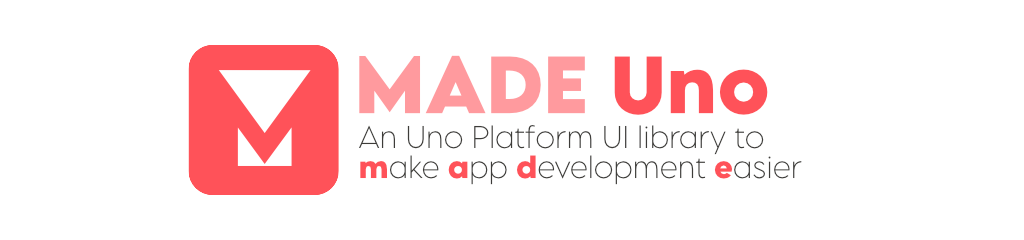
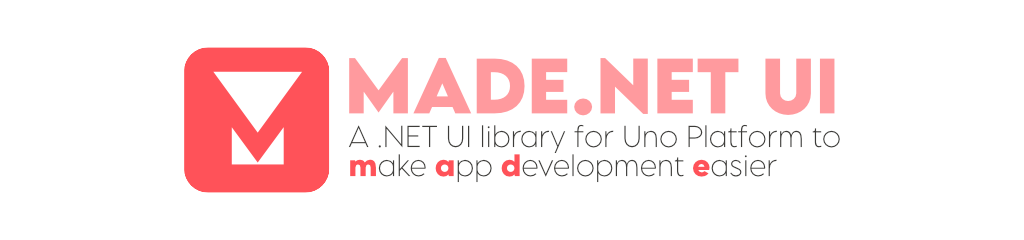
Updated brand to MADE.NET UI

Changed region(s): [[0.1562, 0.2042, 0.8125, 0.8167], [0.1875, 0.175, 0.3125, 0.2042]]

diff --git a/README.md b/README.md
@@ -1,25 +1,25 @@
 <img src="assets/ProjectBanner.png" alt="MADE project banner" />
 
-# MADE Uno
+# MADE.NET UI
 
-A library of Uno Platform UI components, supporting Windows, Android, iOS, and WebAssembly platforms.
+A library of UI components built on the Uno Platform supporting Windows, Android, iOS, and WebAssembly platforms.
 
 This is a collection of companion libraries to the [MADE.NET](https://github.com/MADE-Apps/MADE.NET) libraries.
 
-## Support MADE Uno ♥
+## Support MADE.NET UI ♥
 
-As many developers know, projects like MADE Uno are built and maintained in spare time. If you find this project useful, please **Star** the repo and if possible, sponsor the project development on GitHub.
+As many developers know, projects like MADE.NET UI are built and maintained in spare time. If you find this project useful, please **Star** the repo and if possible, sponsor the project development on GitHub.
 
 ## Build Status
 
 | Build | Status | View |
 | ------ | ------ | ------ |
-| Packages | [![CI](https://github.com/MADE-Apps/MADE-Uno/actions/workflows/ci.yml/badge.svg)](https://github.com/MADE-Apps/MADE-Uno/actions/workflows/ci.yml) | [![NuGet](https://img.shields.io/nuget/v/MADE.UI)](https://www.nuget.org/packages?q=Tags%3A%22MADE%22+UI) |
-| Docs | [![Docs](https://github.com/MADE-Apps/MADE-Uno/actions/workflows/docs.yml/badge.svg)](https://github.com/MADE-Apps/MADE-Uno/actions/workflows/docs.yml) | [![Docs](https://img.shields.io/badge/Docs-GitHub%20Pages-blue?logo=readthedocs)](https://made-apps.github.io/MADE-Uno/) |
+| Packages | [![CI](https://github.com/MADE-Apps/MADE.NET-UI/actions/workflows/ci.yml/badge.svg)](https://github.com/MADE-Apps/MADE.NET-UI/actions/workflows/ci.yml) | [![NuGet](https://img.shields.io/nuget/v/MADE.UI)](https://www.nuget.org/packages?q=Tags%3A%22MADE%22+UI) |
+| Docs | [![Docs](https://github.com/MADE-Apps/MADE.NET-UI/actions/workflows/docs.yml/badge.svg)](https://github.com/MADE-Apps/MADE.NET-UI/actions/workflows/docs.yml) | [![Docs](https://img.shields.io/badge/Docs-GitHub%20Pages-blue?logo=readthedocs)](https://made-apps.github.io/MADE.NET-UI/) |
 
 ## Installation 💾
 
-[MADE Uno](https://www.nuget.org/profiles/made-apps) components are publicly available via NuGet. Each available package is detailed below.
+[MADE.NET UI](https://www.nuget.org/profiles/made-apps) components are publicly available via NuGet. Each available package is detailed below.
 
 | Package | Current | Preview | Downloads |
 | ------ | ------ | ------ | ------ |
@@ -29,6 +29,7 @@ As many developers know, projects like MADE Uno are built and maintained in spar
 | UI.Controls.DropDownList | [![NuGet](https://img.shields.io/nuget/v/MADE.UI.Controls.DropDownList)](https://www.nuget.org/packages/MADE.UI.Controls.DropDownList/) | [![NuGet](https://img.shields.io/nuget/vpre/MADE.UI.Controls.DropDownList)](https://www.nuget.org/packages/MADE.UI.Controls.DropDownList/) | [![NuGet Downloads](https://img.shields.io/nuget/dt/MADE.UI.Controls.DropDownList.svg)](https://www.nuget.org/packages/MADE.UI.Controls.DropDownList) |
 | UI.Controls.FilePicker | [![NuGet](https://img.shields.io/nuget/v/MADE.UI.Controls.FilePicker)](https://www.nuget.org/packages/MADE.UI.Controls.FilePicker/) | [![NuGet](https://img.shields.io/nuget/vpre/MADE.UI.Controls.FilePicker)](https://www.nuget.org/packages/MADE.UI.Controls.FilePicker/) | [![NuGet Downloads](https://img.shields.io/nuget/dt/MADE.UI.Controls.FilePicker.svg)](https://www.nuget.org/packages/MADE.UI.Controls.FilePicker) |
 | UI.Controls.Validator | [![NuGet](https://img.shields.io/nuget/v/MADE.UI.Controls.Validator)](https://www.nuget.org/packages/MADE.UI.Controls.Validator/) | [![NuGet](https://img.shields.io/nuget/vpre/MADE.UI.Controls.Validator)](https://www.nuget.org/packages/MADE.UI.Controls.Validator/) | [![NuGet Downloads](https://img.shields.io/nuget/dt/MADE.UI.Controls.Validator.svg)](https://www.nuget.org/packages/MADE.UI.Controls.Validator) |
+| UI.Data.Converters | [![NuGet](https://img.shields.io/nuget/v/MADE.UI.Data.Converters)](https://www.nuget.org/packages/MADE.UI.Data.Converters/) | [![NuGet](https://img.shields.io/nuget/vpre/MADE.UI.Data.Converters)](https://www.nuget.org/packages/MADE.UI.Data.Converters/) | [![NuGet Downloads](https://img.shields.io/nuget/dt/MADE.UI.Data.Converters.svg)](https://www.nuget.org/packages/MADE.UI.Data.Converters) |
 | UI.Styling | [![NuGet](https://img.shields.io/nuget/v/MADE.UI.Styling)](https://www.nuget.org/packages/MADE.UI.Styling/) | [![NuGet](https://img.shields.io/nuget/vpre/MADE.UI.Styling)](https://www.nuget.org/packages/MADE.UI.Styling/) | [![NuGet Downloads](https://img.shields.io/nuget/dt/MADE.UI.Styling.svg)](https://www.nuget.org/packages/MADE.UI.Styling) |
 | UI.ViewManagement | [![NuGet](https://img.shields.io/nuget/v/MADE.UI.ViewManagement)](https://www.nuget.org/packages/MADE.UI.ViewManagement/) | [![NuGet](https://img.shields.io/nuget/vpre/MADE.UI.ViewManagement)](https://www.nuget.org/packages/MADE.UI.ViewManagement/) | [![NuGet Downloads](https://img.shields.io/nuget/dt/MADE.UI.ViewManagement.svg)](https://www.nuget.org/packages/MADE.UI.ViewManagement) |
 | UI.Views.Dialogs | [![NuGet](https://img.shields.io/nuget/v/MADE.UI.Views.Dialogs)](https://www.nuget.org/packages/MADE.UI.Views.Dialogs/) | [![NuGet](https://img.shields.io/nuget/vpre/MADE.UI.Views.Dialogs)](https://www.nuget.org/packages/MADE.UI.Views.Dialogs/) | [![NuGet Downloads](https://img.shields.io/nuget/dt/MADE.UI.Views.Dialogs.svg)](https://www.nuget.org/packages/MADE.UI.Views.Dialogs) |
@@ -37,11 +38,11 @@ As many developers know, projects like MADE Uno are built and maintained in spar
 
 ## Contributing 🚀
 
-Looking to help build MADE Uno? Take a look through our [contribution guidelines](CONTRIBUTING.md). We actively encourage you to jump in and help with any issues!
+Looking to help build MADE.NET UI? Take a look through our [contribution guidelines](CONTRIBUTING.md). We actively encourage you to jump in and help with any issues!
 
-## Building MADE Uno 🛠
+## Building MADE.NET UI 🛠
 
-MADE Uno is built using .NET Standard, taking advantage of the new SDK-style projects and multi-targeting enabled with the help of [MSBuild.Sdk.Extras](https://github.com/novotnyllc/MSBuildSdkExtras).
+MADE.NET UI is built using .NET Standard, taking advantage of the new SDK-style projects and multi-targeting enabled with the help of [MSBuild.Sdk.Extras](https://github.com/novotnyllc/MSBuildSdkExtras).
 
 Each library is configured to take advantage of the Uno Platform libraries to provide cross-platform components.
 
@@ -54,4 +55,4 @@ You can build the solution using Visual Studio with the following workloads inst
 
 ## License
 
-MADE Uno is made available under the terms and conditions of the [MIT license](LICENSE).
+MADE.NET UI is made available under the terms and conditions of the [MIT license](LICENSE).

diff --git a/docs/index.md b/docs/index.md
@@ -11,7 +11,7 @@ title: Make App Development Easier
   </h1>
 
   <div class="hero-subtitle">
-    MADE Uno is a collection of components designed for building applications with the Uno Platform on Windows, Android, iOS, and WebAssembly.
+    MADE.NET UI is a collection of components designed for building applications with the Uno Platform on Windows, Android, iOS, and WebAssembly.
   </div>
 
   <div class="hero-actions mb-5">
@@ -117,12 +117,12 @@ title: Make App Development Easier
     Stats
   </span>
   <div class="stats-container d-flex flex-row flex-wrap">
-    <a class="stat" href="https://github.com/MADE-Apps/MADE-Uno/releases" target="_blank">
+    <a class="stat" href="https://github.com/MADE-Apps/MADE.NET-UI/releases" target="_blank">
       <span>
         <div class="stat-container">
           <div class="stat-header">
             <span>
-              v1.4.0
+              v1.5.0
             </span>
           </div>
           <div class="stat-content">
@@ -138,7 +138,7 @@ title: Make App Development Easier
         <div class="stat-container">
           <div class="stat-header">
             <span>
-              225k+
+              300k+
             </span>
           </div>
           <div class="stat-content">
@@ -154,7 +154,7 @@ title: Make App Development Easier
         <div class="stat-container">
           <div class="stat-header">
             <span>
-              22
+              27
             </span>
           </div>
           <div class="stat-content">
@@ -176,7 +176,7 @@ title: Make App Development Easier
       UI Components
     </h2>
     <div class="md-content">
-      MADE Uno provides a set of cross-platform UI components for Windows, WebAssembly, Android, iOS, macOS, and Linux.
+      MADE.NET UI provides a set of cross-platform UI components for Windows, WebAssembly, Android, iOS, macOS, and Linux.
     </div>
   </div>
   <div class="col-lg-5">
@@ -232,7 +232,7 @@ title: Make App Development Easier
 <div class="row highlight-section home-row d-flex home-row-centered-sm">
   <div class="d-flex flex-column my-auto col-lg-7">
     <h2 class="sm-header mb-5">
-      MADE Uno is simple to install and it's easy to get started.
+      MADE.NET UI is simple to install and it's easy to get started.
     </h2>
   </div>
   <div class="col-lg-5">
@@ -253,17 +253,17 @@ title: Make App Development Easier
     <div class="grid-item grid-border-right d-flex flex-column align-items-center text-center">
       <img src="images/icons/love.png" alt="Hands holding a heart icon" />
       <h2 class="sm-header">
-        Support MADE Uno
+        Support MADE.NET UI
       </h2>
       <div class="sm-content mb-3">
-        If you'd like to support MADE Uno, considering donating to the project
+        If you'd like to support MADE.NET UI, considering donating to the project
       </div>
       <span class="button sponsor-button">
-<a aria-label="Support MADE Uno" target="_top" href="https://github.com/sponsors/jamesmcroft/">
+<a aria-label="Support MADE.NET UI" target="_top" href="https://github.com/sponsors/jamesmcroft/">
 <svg height="16" class="octicon octicon-heart text-pink me-2" viewbox="0 0 16 16" version="1.1" width="16" aria-hidden="true">
 <path fill-rule="evenodd" d="M4.25 2.5c-1.336 0-2.75 1.164-2.75 3 0 2.15 1.58 4.144 3.365 5.682A20.565 20.565 0 008 13.393a20.561 20.561 0 003.135-2.211C12.92 9.644 14.5 7.65 14.5 5.5c0-1.836-1.414-3-2.75-3-1.373 0-2.609.986-3.029 2.456a.75.75 0 01-1.442 0C6.859 3.486 5.623 2.5 4.25 2.5zM8 14.25l-.345.666-.002-.001-.006-.003-.018-.01a7.643 7.643 0 01-.31-.17 22.075 22.075 0 01-3.434-2.414C2.045 10.731 0 8.35 0 5.5 0 2.836 2.086 1 4.25 1 5.797 1 7.153 1.802 8 3.02 8.847 1.802 10.203 1 11.75 1 13.914 1 16 2.836 16 5.5c0 2.85-2.045 5.231-3.885 6.818a22.08 22.08 0 01-3.744 2.584l-.018.01-.006.003h-.002L8 14.25zm0 0l.345.666a.752.752 0 01-.69 0L8 14.25z"></path>
 </svg>
-<span>Support MADE Uno</span>
+<span>Support MADE.NET UI</span>
 </a>
 </span>
     </div>
@@ -275,14 +275,14 @@ title: Make App Development Easier
         Contribute on GitHub
       </h2>
       <div class="sm-content mb-3">
-        MADE Uno is open source and you can contribute on GitHub
+        MADE.NET UI is open source and you can contribute on GitHub
       </div>
       <span class="button sponsor-button">
-<a aria-label="Contribute to MADE Uno" target="_top" href="https://github.com/MADE-Apps/MADE-Uno/">
+<a aria-label="Contribute to MADE.NET UI" target="_top" href="https://github.com/MADE-Apps/MADE.NET-UI/">
 <svg height="16" class="octicon octicon-heart text-pink me-2" viewbox="0 0 16 16" version="1.1" width="16" aria-hidden="true">
 <path fill-rule="evenodd" d="M4.25 2.5c-1.336 0-2.75 1.164-2.75 3 0 2.15 1.58 4.144 3.365 5.682A20.565 20.565 0 008 13.393a20.561 20.561 0 003.135-2.211C12.92 9.644 14.5 7.65 14.5 5.5c0-1.836-1.414-3-2.75-3-1.373 0-2.609.986-3.029 2.456a.75.75 0 01-1.442 0C6.859 3.486 5.623 2.5 4.25 2.5zM8 14.25l-.345.666-.002-.001-.006-.003-.018-.01a7.643 7.643 0 01-.31-.17 22.075 22.075 0 01-3.434-2.414C2.045 10.731 0 8.35 0 5.5 0 2.836 2.086 1 4.25 1 5.797 1 7.153 1.802 8 3.02 8.847 1.802 10.203 1 11.75 1 13.914 1 16 2.836 16 5.5c0 2.85-2.045 5.231-3.885 6.818a22.08 22.08 0 01-3.744 2.584l-.018.01-.006.003h-.002L8 14.25zm0 0l.345.666a.752.752 0 01-.69 0L8 14.25z"></path>
 </svg>
-<span>Contribute to MADE Uno</span>
+<span>Contribute to MADE.NET UI</span>
 </a>
     </div>
   </div>

diff --git a/CONTRIBUTING.md b/CONTRIBUTING.md
@@ -1,10 +1,10 @@
 # Contributing
 
-These guidelines are designed to help you as a contributor to bring your code and skills to the MADE Uno project to make it better.
+These guidelines are designed to help you as a contributor to bring your code and skills to the MADE.NET UI project to make it better.
 
 ## What can I contribute to?
 
-Our [issue tracker](https://github.com/MADE-Apps/MADE-Uno/issues) contains a collection of features and issues waiting to be worked on! If you see any item marked with **Help Wanted**, we'd like to see you put your skills to use and contribute whatever you can to help develop the feature.
+Our [issue tracker](https://github.com/MADE-Apps/MADE.NET-UI/issues) contains a collection of features and issues waiting to be worked on! If you see any item marked with **Help Wanted**, we'd like to see you put your skills to use and contribute whatever you can to help develop the feature.
 
 This can be in the form of contributing to the conversation around the feature or issue, providing code and submitting a pull request, adding a new feature request or bug, or even helping to update our documentation. 
 
@@ -22,7 +22,7 @@ Don't worry! If you're unsure, just strike up a conversation in the issue you're
 
 ## Bug Hunting
 
-We're more than happy for you to contribute to our project through testing. We're all developers and we often miss things so finding bugs in the project's code is definitely approved of. Please remember to start a new issue in our [issue tracker](https://github.com/MADE-Apps/MADE-Uno/issues) so we can keep an eye on them and get bugs fixed.
+We're more than happy for you to contribute to our project through testing. We're all developers and we often miss things so finding bugs in the project's code is definitely approved of. Please remember to start a new issue in our [issue tracker](https://github.com/MADE-Apps/MADE.NET-UI/issues) so we can keep an eye on them and get bugs fixed.
 
 Even better, if you know how to fix it, follow up your issue with a pull request!
 

diff --git a/.github/PULL_REQUEST_TEMPLATE.md b/.github/PULL_REQUEST_TEMPLATE.md
@@ -1,15 +1,14 @@
-## Fixes #
+## Resolves #
 <!-- Add the issue ID after the '#' to automatically close the issue once the PR is merged -->
 
 <!-- Please provide a description below of the changes made and how it has been tested -->
 
 ## PR checklist
 
-- [ ] Samples have been added/updated (where applicable)
-- [ ] Tests have been added/updated (where applicable) and pass
-- [ ] Documentation has been added/updated for changes
-- [ ] Code styling has been met on new source file changes
-- [ ] Contains **NO** breaking changes
+- [ ] Have samples been added or updated, run locally, and work as intended
+- [ ] Have code styling rules been run on all new source file changes
+- [ ] Have relevant articles in the docs been added or updated for all new source file changes
+- [ ] Have major breaking changes been made and are documented
 
 <!-- If a breaking change has been made, please provide a detailed description below of the impact and the migration path -->
 

diff --git a/docs/api/index.md b/docs/api/index.md
@@ -5,6 +5,6 @@ title: Explore the APIs
 
 # Explore the APIs
 
-Here you'll find all of the generated code documentation for the MADE Uno projects, similar to what you might find on Microsoft Docs!
+Here you'll find all of the generated code documentation for the MADE.NET UI projects, similar to what you might find on Microsoft Docs!
 
-This documentation is designed to show you how each component of MADE Uno is constructed and provide a reference for you when building your projects.
+This documentation is designed to show you how each component of MADE.NET UI is constructed and provide a reference for you when building your projects.

diff --git a/docs/articles/features/ui.md b/docs/articles/features/ui.md
@@ -7,7 +7,7 @@ title: Using the UI package
 
 The UI package is a base package for building out UI components for native applications for Windows, Android, iOS, macOS, Linux, and the web.
 
-Its main purpose is to be used by the additional MADE Uno UI packages. However, it can be used to build your own custom UI elements for your own applications.
+Its main purpose is to be used by the additional MADE.NET UI UI packages. However, it can be used to build your own custom UI elements for your own applications.
 
 ## Building custom controls for Windows or Uno Platform applications
 

diff --git a/docs/articles/intro.md b/docs/articles/intro.md
@@ -5,7 +5,7 @@ title: Getting Started
 
 # Getting Started
 
-MADE Uno is a collection of components designed for building applications with the Uno Platform on Windows, Android, iOS, and WebAssembly.
+MADE.NET UI is a collection of components designed for building applications with the Uno Platform on Windows, Android, iOS, and WebAssembly.
 
 ## Installation
 

diff --git a/docs/README.md b/docs/README.md
@@ -1,6 +1,6 @@
-# MADE Uno Documentation
+# MADE.NET UI Documentation
 
-This folder contains source code for the generation of MADE Uno's documentation.
+This folder contains source code for the generation of MADE.NET UI's documentation.
 
 ## Contributing to the docs
 
